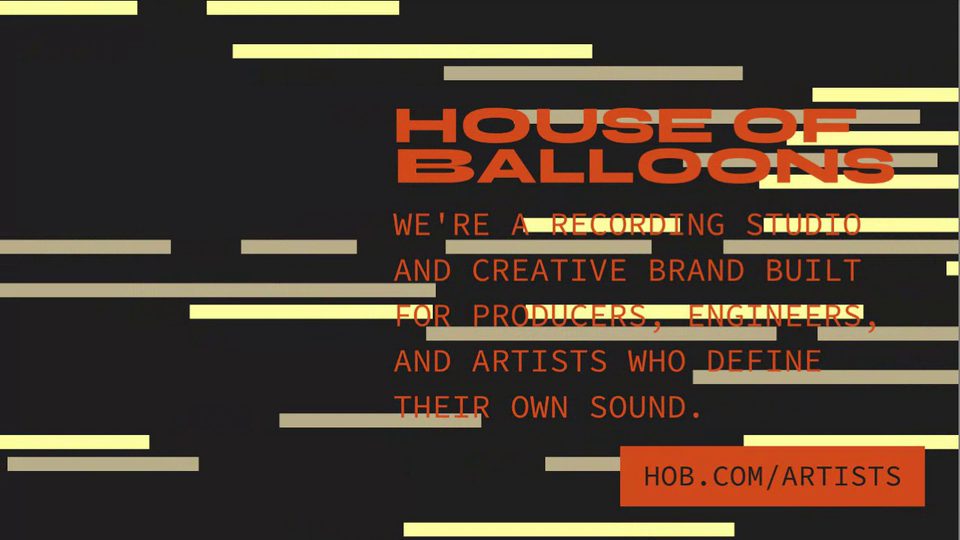
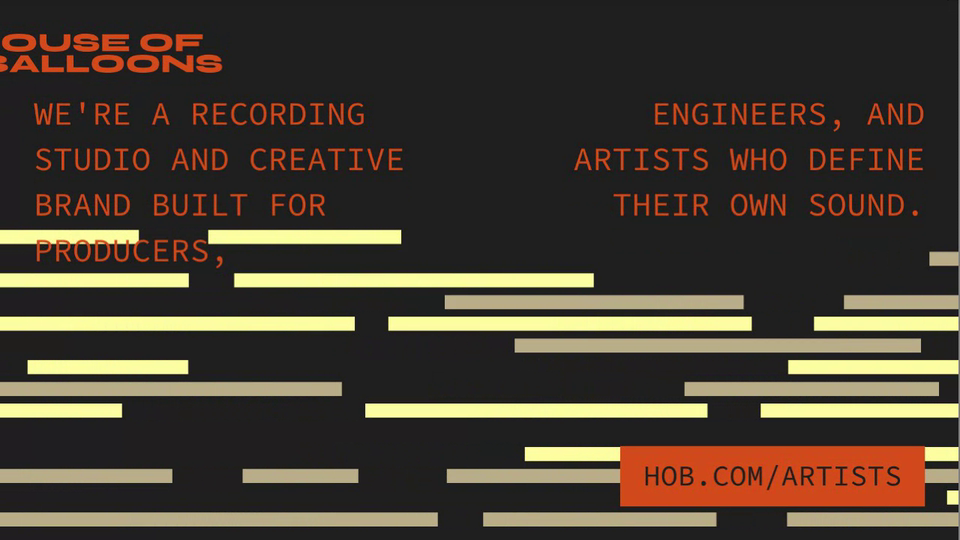
HOB Social Studio: bleeding headline, two sub sections, bars in a top/bottom band (#423)
Claude-Session: https://claude.ai/code/session_01AHeBdw1yZrTVobosxD3wAX

diff --git a/hob-social-studio/index.html b/hob-social-studio/index.html
@@ -92,10 +92,12 @@ button.go{background:#5ca0ff;color:#fff}button.go:hover{background:#4a91f5}
         <div class="row sel"><span>Preset</span><select id="pre"><option value="1080x1350">Portrait 4:5 · 1080×1350</option><option value="1080x1920">Reel / Story 9:16 · 1080×1920</option><option value="1080x1080">Square 1:1 · 1080×1080</option><option value="1920x1080">Landscape 16:9 · 1920×1080</option></select></div>
       </section>
       <section><h2>Colour</h2><div class="grid g4" id="combos"></div></section>
-      <section><h2>Layout</h2><div class="grid g2" id="layouts"></div></section>
+      <section><h2>Layout</h2><div class="grid g2" id="layouts"></div>
+        <p class="cap2" id="zcap" style="margin:12px 0 6px">Bars area</p><div class="grid g2" id="zones"></div></section>
       <section><h2>Text</h2>
         <p class="cap2">Headline</p><textarea id="head" rows="2"></textarea>
-        <p class="cap2" style="margin-top:10px">Body</p><textarea id="body" rows="3"></textarea>
+        <p class="cap2" style="margin-top:10px">Sub left</p><textarea id="b1" rows="2"></textarea>
+        <p class="cap2" style="margin-top:10px">Sub right (right aligned)</p><textarea id="b2" rows="2"></textarea>
         <p class="cap2" style="margin-top:10px">Tag</p><input id="tag" type="text" style="margin-bottom:14px">
         <div class="row"><span>Headline</span><input id="hs" type="range" min="50" max="140" value="100"><output>100</output></div>
         <div class="row"><span>Body</span><input id="bs" type="range" min="60" max="180" value="100"><output>100</output></div>
@@ -143,7 +145,7 @@ const COMBOS=[
   {n:'Black',bg:CHAR,tx:ORANGE,ib:CHAR,ii:CREAM,br:[CREAM,TAN]}
 ];
 const LAYOUTS=[['poster','Poster'],['image','Image Top'],['bleed','Full Bleed'],['bars','Bars']];
-const S={w:1080,h:1350,combo:0,layout:'poster',head:'HOUSE OF\nBALLOONS',body:"WE'RE A RECORDING STUDIO AND CREATIVE BRAND BUILT FOR PRODUCERS, ENGINEERS, AND ARTISTS WHO DEFINE THEIR OWN SOUND.",tag:'HOB.COM/ARTISTS',hs:100,bs:100,amt:1.8,sel:[1,9],cell:8,sp:100,paused:false,loop:true};
+const S={w:1080,h:1350,combo:0,layout:'poster',head:'HOUSE OF\nBALLOONS',b1:"WE'RE A RECORDING STUDIO AND CREATIVE BRAND BUILT FOR PRODUCERS,",b2:"ENGINEERS, AND ARTISTS WHO DEFINE THEIR OWN SOUND.",zone:'bot60',tag:'HOB.COM/ARTISTS',hs:100,bs:100,amt:1.8,sel:[1,9],cell:8,sp:100,paused:false,loop:true};
 const $=id=>document.getElementById(id);
 const cv=$('cv'),off=document.createElement('canvas');
 let ctx=cv.getContext('2d');const mainCtx=ctx,offCtx=off.getContext('2d');
@@ -204,10 +206,10 @@ function lineData(){
   for(const L of lines){const ch=[];for(let i=0;i<L.length;i++)ch.push({c:L[i],i:pos+i,w:rw(L[i])});pos+=L.length+1;out.push(ch);}
   return out;
 }
-function headMetrics(avail){
+function headMetrics(avail,mul){
   const ld=lineData();let mx=1;
-  for(const L of ld){let w=0;for(const g of L)w+=g.w*(S.sel.includes(g.i)?S.amt:1);mx=Math.max(mx,w);}
-  const size=avail/mx*100*(S.hs/100);ctx.font=HF;ctx.textBaseline='alphabetic';
+  for(const L of ld){let w=0;for(const g of L)w+=g.w*(S.sel.includes(g.i)?1+(S.amt-1)*.5:1);mx=Math.max(mx,w);}
+  const size=avail/mx*100*(S.hs/100)*mul;ctx.font=HF;ctx.textBaseline='alphabetic';
   const cap=ctx.measureText('H').actualBoundingBoxAscent*size/100,pitch=cap*1.22;
   return{ld,size,cap,pitch,h:cap+pitch*(ld.length-1)};
 }
@@ -223,57 +225,63 @@ function drawHead(M,x0,y0,col){
 }
 
 /* ---------- mono body + tag ---------- */
-function bodyLines(w,size){
+function bodyLines(text,w,size){
   ctx.font=MONO(size);const out=[];
-  for(const para of S.body.toUpperCase().split('\n')){let cur='';
+  for(const para of text.toUpperCase().split('\n')){let cur='';
     for(const wd of para.split(/\s+/)){const t=cur?cur+' '+wd:wd;if(cur&&ctx.measureText(t).width>w){out.push(cur);cur=wd;}else cur=t;}
     out.push(cur);}
   return out;
 }
-function drawBody(x,y,w,col){
-  const size=W*.034*S.bs/100,ls=bodyLines(w,size);
-  ctx.font=MONO(size);ctx.fillStyle=col;ctx.textBaseline='top';
-  ls.forEach((l,i)=>ctx.fillText(l,x,y+i*size*1.4));
-  return ls.length*size*1.4;
+// the sub copy runs as two sections: the left one left-aligned, the right one right-aligned to the margin
+function cols(bw,size){const cw=(bw-W*.04)/2,a=bodyLines(S.b1,cw,size),b=bodyLines(S.b2,cw,size);return{a,b,h:Math.max(a.length,b.length)*size*1.4};}
+function drawCols(x,y,bw,size,col){
+  const c=cols(bw,size);ctx.font=MONO(size);ctx.fillStyle=col;ctx.textBaseline='top';
+  ctx.textAlign='left';c.a.forEach((l,i)=>ctx.fillText(l,x,y+i*size*1.4));
+  ctx.textAlign='right';c.b.forEach((l,i)=>ctx.fillText(l,x+bw,y+i*size*1.4));ctx.textAlign='left';
 }
 function tagBox(){const size=W*.03*S.bs/100;ctx.font=MONO(size);const t=S.tag.toUpperCase();return{t,size,w:ctx.measureText(t).width+size*1.6,h:size*2.1};}
 function drawTag(x,y,C){const b=tagBox();ctx.fillStyle=C.tx;ctx.fillRect(Math.round(x),Math.round(y),Math.round(b.w),Math.round(b.h));ctx.fillStyle=C.bg;ctx.font=MONO(b.size);ctx.textBaseline='middle';ctx.fillText(b.t,x+b.size*.8,y+b.h/2+b.size*.04);}
 
 /* ---------- bars (Stretch motif) ---------- */
-function bars(C){
-  const u=W/1280,barH=H*.026,pitch=barH*1.55,gap=W*.09,n=Math.ceil(H/pitch)+1;
+function bars(C,z){
+  const u=W/1280,barH=H*.026,pitch=barH*1.55,gap=W*.09,n=Math.max(1,Math.floor((z.y1-z.y0)/pitch)),oy=z.y0+((z.y1-z.y0)-n*pitch+pitch-barH)/2;
   for(let r=0;r<n;r++){
     const v=(.55+hh(r,1)*1.7)*60*u,m=Math.ceil((W*1.7)/(W*.3+gap))+2,bw=[],pos=[];let L=0;
     for(let k=0;k<m;k++){bw.push((.12+hh(r,k+7)*.38)*W);pos.push(L);L+=bw[k]+gap;}
     const sh=hh(r,3)*L+v*T;ctx.fillStyle=C.br[r%2];
     for(let k=0;k<m;k++){
-      if(hh(r,k+40)>=.32)continue;
+      if(hh(r,k+40)>=.5)continue;
       const x=mod(pos[k]+sh,L)-W*.6,st=.95+.1*(1+Math.sin(T*.6+hh(r,k+90)*6.283));
       if(x>W||x+bw[k]*st<0)continue;
-      ctx.fillRect(Math.round(x),Math.round(r*pitch),Math.round(bw[k]*st),Math.round(barH));
+      ctx.fillRect(Math.round(x),Math.round(oy+r*pitch),Math.round(bw[k]*st),Math.round(barH));
     }
   }
 }
 
 /* ---------- compose ---------- */
 function paint(tv){
-  T=tv;const C=COMBOS[S.combo],land=W>H*1.2,m=W*.035,L=S.layout;
+  T=tv;const C=COMBOS[S.combo],land=W>H*1.2,m=W*.035,L=S.layout,size=W*.034*S.bs/100;
   ctx.globalAlpha=1;ctx.fillStyle=C.bg;ctx.fillRect(0,0,W,H);
-  const tg=tagBox(),gap=m*.8;let hx=m,hy=m,hw=W-2*m,img=null,bx,bw,tx,ty;
+  const tg=tagBox(),gap=m*.8;let hx=m,hy=m,hw=W-2*m,img=null,regionH=H-2*m,zone=null;
   if(L==='poster'){if(land){hw=W*.5-1.5*m;img={x:W*.5,y:0,w:W*.5,h:H};}}
   else if(L==='image'){if(land){hx=W*.5+m;hw=W*.5-2*m;img={x:0,y:0,w:W*.5,h:H};}else{img={x:0,y:0,w:W,h:H*.6};hy=H*.6+m;}}
   else if(L==='bleed'){img={x:0,y:0,w:W,h:H};}
-  else{if(land){hx=W*.41;hw=W*.55;hy=H*.2;}else hy=H*.12;}
-  if(img&&L==='poster'&&!land)img.y=-1; // resolved below
-  const M=headMetrics(hw);bx=hx;bw=land?hw:Math.min(hw,W*.74);
+  else{ // bars live in a band at the top or bottom; the text takes the rest
+    const f=S.zone.endsWith('25')?.25:.6,top=S.zone.startsWith('top');
+    zone=top?{y0:0,y1:H*f}:{y0:H*(1-f),y1:H};hy=top?H*f+m:m;regionH=H*(1-f)-2*m-tg.h;
+  }
+  // a full-width headline runs slightly past both edges
+  const wide=hw===W-2*m,avail=wide?W*1.07:hw,hx0=wide?-W*.035:hx,bx=wide?m:hx,bw=wide?W-2*m:hw;
+  let M=headMetrics(avail,1);const c=cols(bw,size);
+  if(zone&&M.h+gap+c.h>regionH)M=headMetrics(avail,Math.min(1,Math.max(.25,(regionH-gap-c.h)/M.h)));
   const by=hy+M.h+gap;
-  if(L==='poster'&&!land){const bh=bodyLines(bw,W*.034*S.bs/100).length*W*.034*S.bs/100*1.4,top=Math.round(by+bh+gap);img={x:0,y:top,w:W,h:Math.max(m,H-top)};}
+  if(L==='poster'&&!land){const top=Math.round(by+c.h+gap);img={x:0,y:top,w:W,h:Math.max(m,H-top)};}
   if(img)drawImage({x:Math.round(img.x),y:Math.round(img.y),w:Math.round(img.w),h:Math.round(img.h)},C);
-  if(L==='bars')bars(C);
-  drawHead(M,hx,hy,C.tx);
-  drawBody(bx,by,bw,C.tx);
-  if(L==='image'&&!land||L==='bars'||L==='poster'&&!land||L==='bleed'){tx=W-m-tg.w;ty=H-m-tg.h;}else{tx=land&&L!=='bleed'?hx:W-m-tg.w;ty=H-m-tg.h;}
-  drawTag(tx,ty,C);
+  if(zone)bars(C,zone);
+  drawHead(M,hx0,hy,C.tx);
+  drawCols(bx,by,bw,size,C.tx);
+  const tx=(land&&L!=='bleed'&&L!=='bars')?hx:W-m-tg.w;
+  drawTag(tx,H-m-tg.h,C);
   ctx.globalAlpha=1;
 }
 
@@ -337,6 +345,8 @@ function fit(){
 function buildSwatches(){
   $('combos').innerHTML='';COMBOS.forEach((c,i)=>{const b=document.createElement('button');b.type='button';b.className='sw';b.title=c.n;b.textContent='Aa';b.style.background=c.bg;b.style.color=c.tx;b.setAttribute('aria-pressed',i===S.combo);b.onclick=()=>{S.combo=i;buildSwatches();};$('combos').appendChild(b);});
   $('layouts').innerHTML='';LAYOUTS.forEach(([id,n])=>{const b=document.createElement('button');b.type='button';b.textContent=n;b.setAttribute('aria-pressed',id===S.layout);b.onclick=()=>{S.layout=id;buildSwatches();};$('layouts').appendChild(b);});
+  $('zones').innerHTML='';[['top25','Top 25%'],['top60','Top 60%'],['bot25','Bottom 25%'],['bot60','Bottom 60%']].forEach(([id,n])=>{const b=document.createElement('button');b.type='button';b.textContent=n;b.setAttribute('aria-pressed',id===S.zone);b.onclick=()=>{S.zone=id;buildSwatches();};$('zones').appendChild(b);});
+  $('zones').style.display=$('zcap').style.display=S.layout==='bars'?'':'none';
   $('capL').textContent=LAYOUTS.find(l=>l[0]===S.layout)[1]+' · '+COMBOS[S.combo].n;
 }
 function buildChips(){
@@ -350,9 +360,9 @@ function buildChips(){
     box.appendChild(b);
   }
 }
-$('head').value=S.head;$('body').value=S.body;$('tag').value=S.tag;
+$('head').value=S.head;$('b1').value=S.b1;$('b2').value=S.b2;$('tag').value=S.tag;
 $('head').oninput=e=>{S.head=e.target.value;buildChips();};
-$('body').oninput=e=>{S.body=e.target.value;};$('tag').oninput=e=>{S.tag=e.target.value;};
+$('b1').oninput=e=>{S.b1=e.target.value;};$('b2').oninput=e=>{S.b2=e.target.value;};$('tag').oninput=e=>{S.tag=e.target.value;};
 [['hs','hs',1,''],['bs','bs',1,''],['cell','cell',1,''],['sp','sp',1,''],['amt','amt',.1,'×']].forEach(([id,k,sc,u])=>{
   $(id).oninput=e=>{S[k]=+e.target.value*sc;e.target.nextElementSibling.textContent=(sc===1?e.target.value:S[k].toFixed(1))+u;};
 });

diff --git a/tools/record-clips.js b/tools/record-clips.js
@@ -85,8 +85,8 @@ const APPS = {
     const t0 = Date.now(), go = (o) => p.evaluate((x) => __hobs.set(x), o);
     await at(t0, 1500, () => go({ layout: 'poster', combo: 0 }));
     await at(t0, 3000, () => go({ layout: 'bleed', combo: 3 }));
-    await at(t0, 4400, () => go({ layout: 'bars', combo: 1 }));
-    await at(t0, 5500, () => go({ layout: 'bars', combo: 4 }));
+    await at(t0, 4400, () => go({ layout: 'bars', combo: 1, zone: 'top25' }));
+    await at(t0, 5500, () => go({ layout: 'bars', combo: 4, zone: 'bot60' }));
   } },
   'grid-alphabet': { vp: [1280, 769], crop: [0, 49, 1280, 720], hash: '#w=SANDBOX&clip', ready: 500, q: 55, run: async (p) => { const t0 = Date.now(); await at(t0, 700, () => p.evaluate(() => __ga.start())); await sleep(5600); } },
   'conference-post-generator': { vp: [1280, 769], setup: cropOf('#cv'), ready: 1200, q: 40, run: async (p) => {
